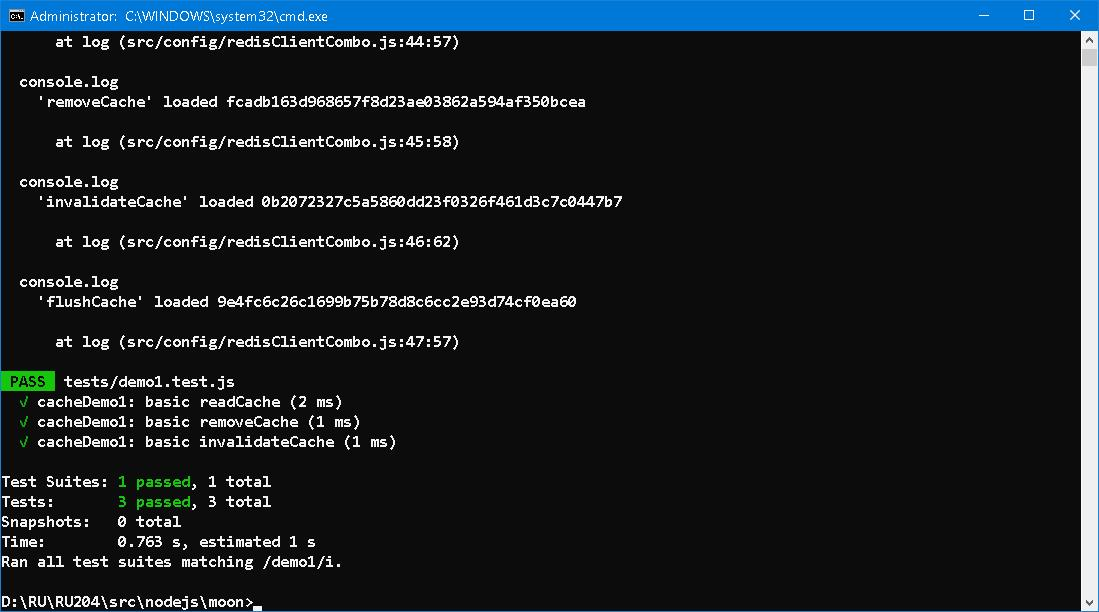
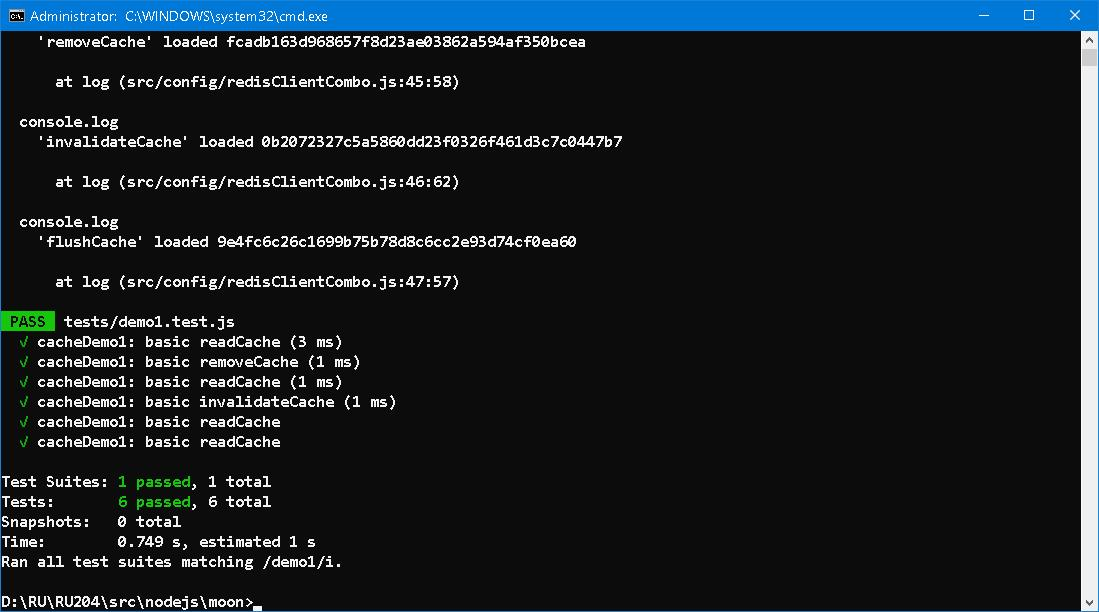
better demo1

diff --git a/src/nodejs/moon/tests/demo1.test.js b/src/nodejs/moon/tests/demo1.test.js
@@ -36,18 +36,28 @@ test(`${testSuiteName}: basic readCache`, async () => {
 });
 
 test(`${testSuiteName}: basic removeCache`, async () => {
-    await removeCache(testKey2);   
+    const num = await removeCache(testKey2, ['friends', 'apartment-4B', 'The-Cheesecake-Factory', 'second-couple']); 
+    expect(num).toEqual(4);
+});
+
+test(`${testSuiteName}: basic readCache`, async () => {
     const keyValue = await readCache(testKey2);
     expect(keyValue).toBe(null);
 });
 
 test(`${testSuiteName}: basic invalidateCache`, async () => {
-    await invalidateCache(['apartment-4A', 'apartment-4B'])    
-    const keyValue1 = await readCache('leonard');
-    const keyValue2 = await readCache('sheldon');
+    const num = await invalidateCache(['apartment-4A'])
+    expect(num).toEqual(3);
+});
 
-    expect(keyValue1).toBe(null);
-    expect(keyValue2).toBe(null);
+test(`${testSuiteName}: basic readCache`, async () => {
+    const keyValue = await readCache('leonard');
+    expect(keyValue).toBe(null);
+});
+
+test(`${testSuiteName}: basic readCache`, async () => {
+    const keyValue = await readCache('sheldon');
+    expect(keyValue).toBe(null);
 });
 
 /*
